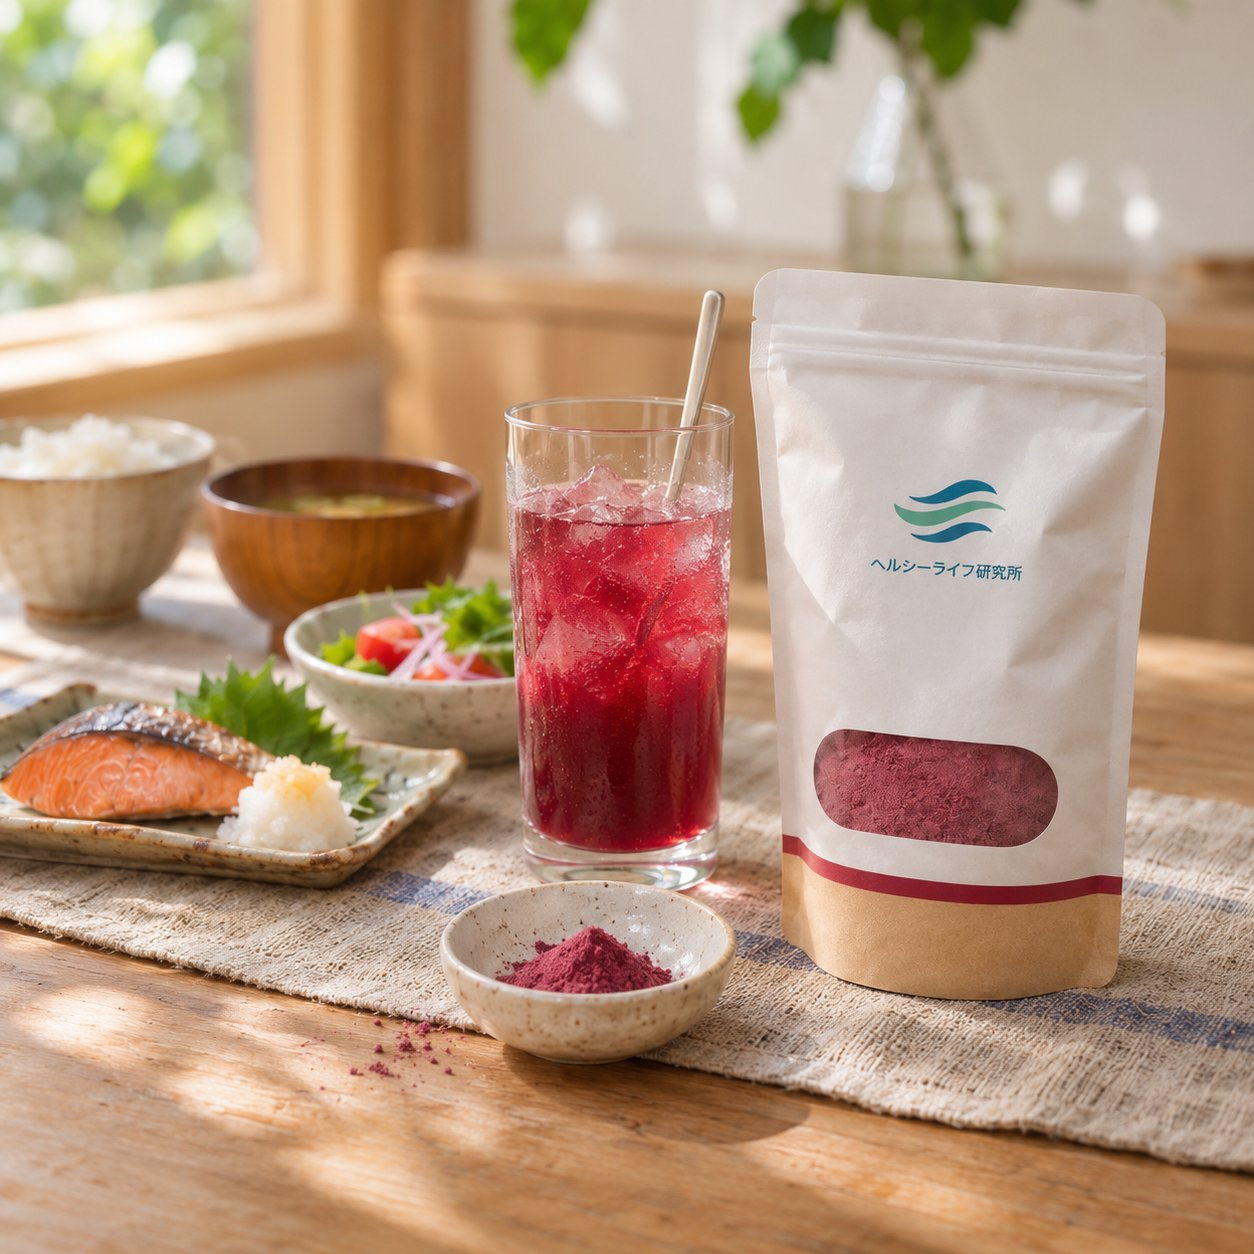
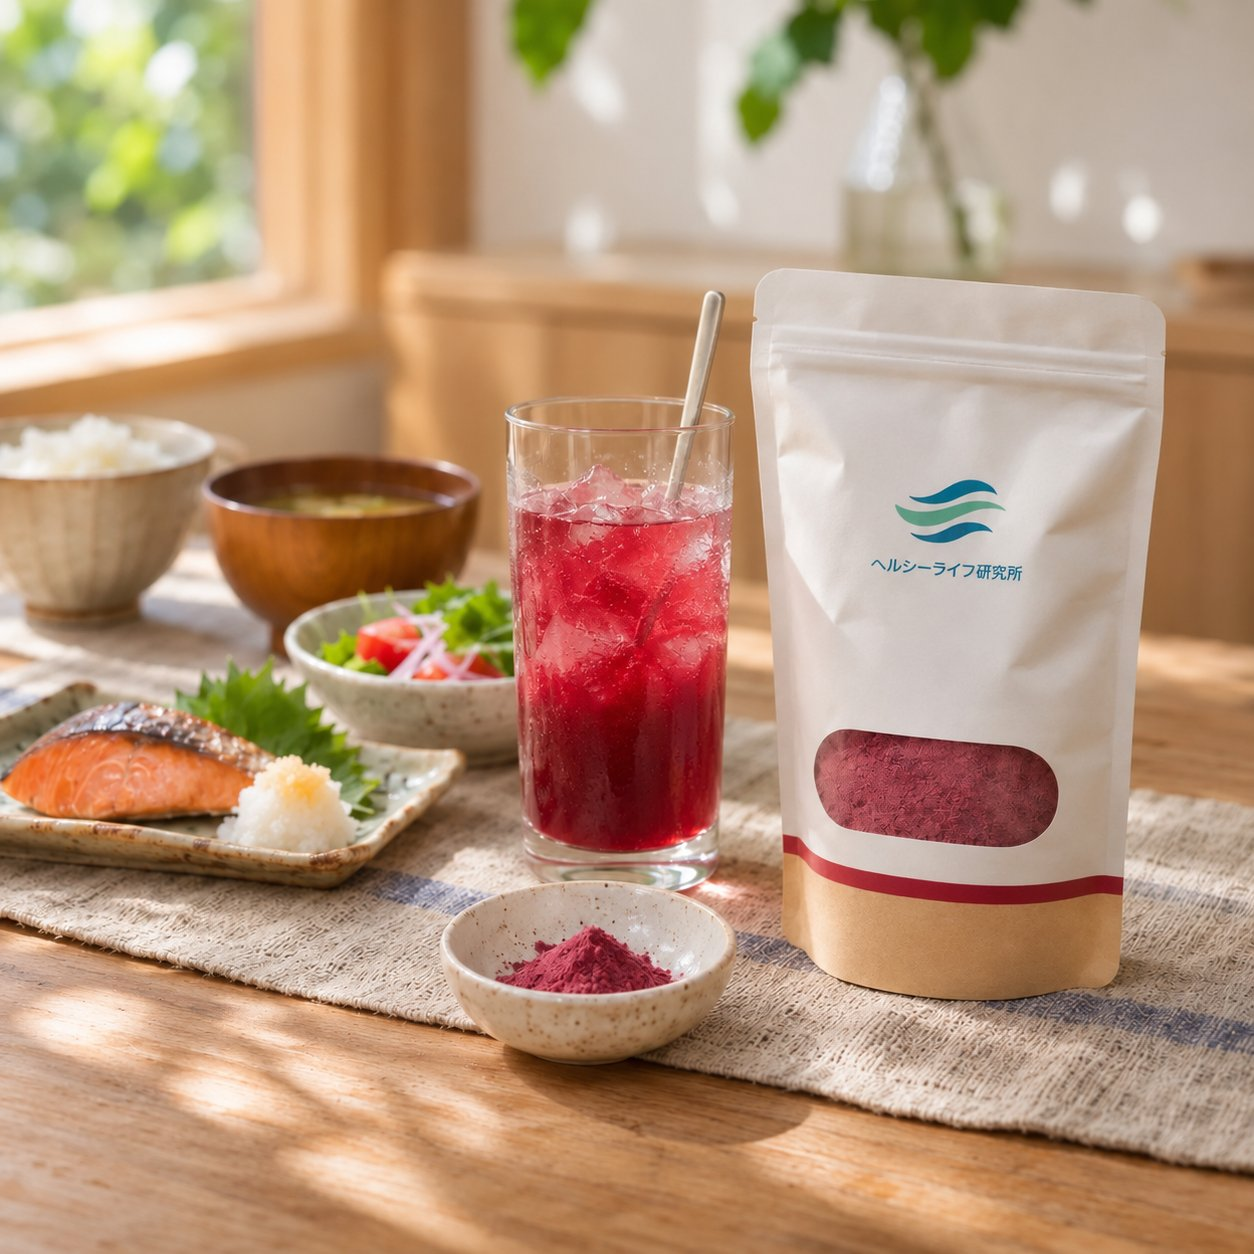
v13: remove spilled powder from hero-product

diff --git a/review/index.html b/review/index.html
@@ -550,7 +550,7 @@ dialog::backdrop{background:rgba(5,12,12,.82)}
   };
   ROWS.forEach(r => { r.v12 = {s:["g","g","g"], n: V12[r.f] || "v11 と同じ（変更なし）。"}; });
   const V13 = {
-    "hero-product":"v12 の場面を元に、人を消して商品（パウチ・グラス・小皿の粉）が主役の写真に作り直し。",
+    "hero-product":"v12 の場面を元に、人を消して商品（パウチ・グラス・小皿の粉）が主役の写真に作り直し。テーブルにこぼれた赤い粉も消した。",
     "service-hero":"v12 を元に、箱の中のパウチを持つ手と袖を削除。パウチは箱の中に置いたまま。",
     "svc-ec":"v12 の場面を元に、顔が入らない手元のアップに作り直し（パウチと CI ロゴの段ボールが主役）。",
     "svc-restaurant":"No.21 restaurant-hero（v12）の写真に差し替え（同じ 1536×1024、生成なし）。",
